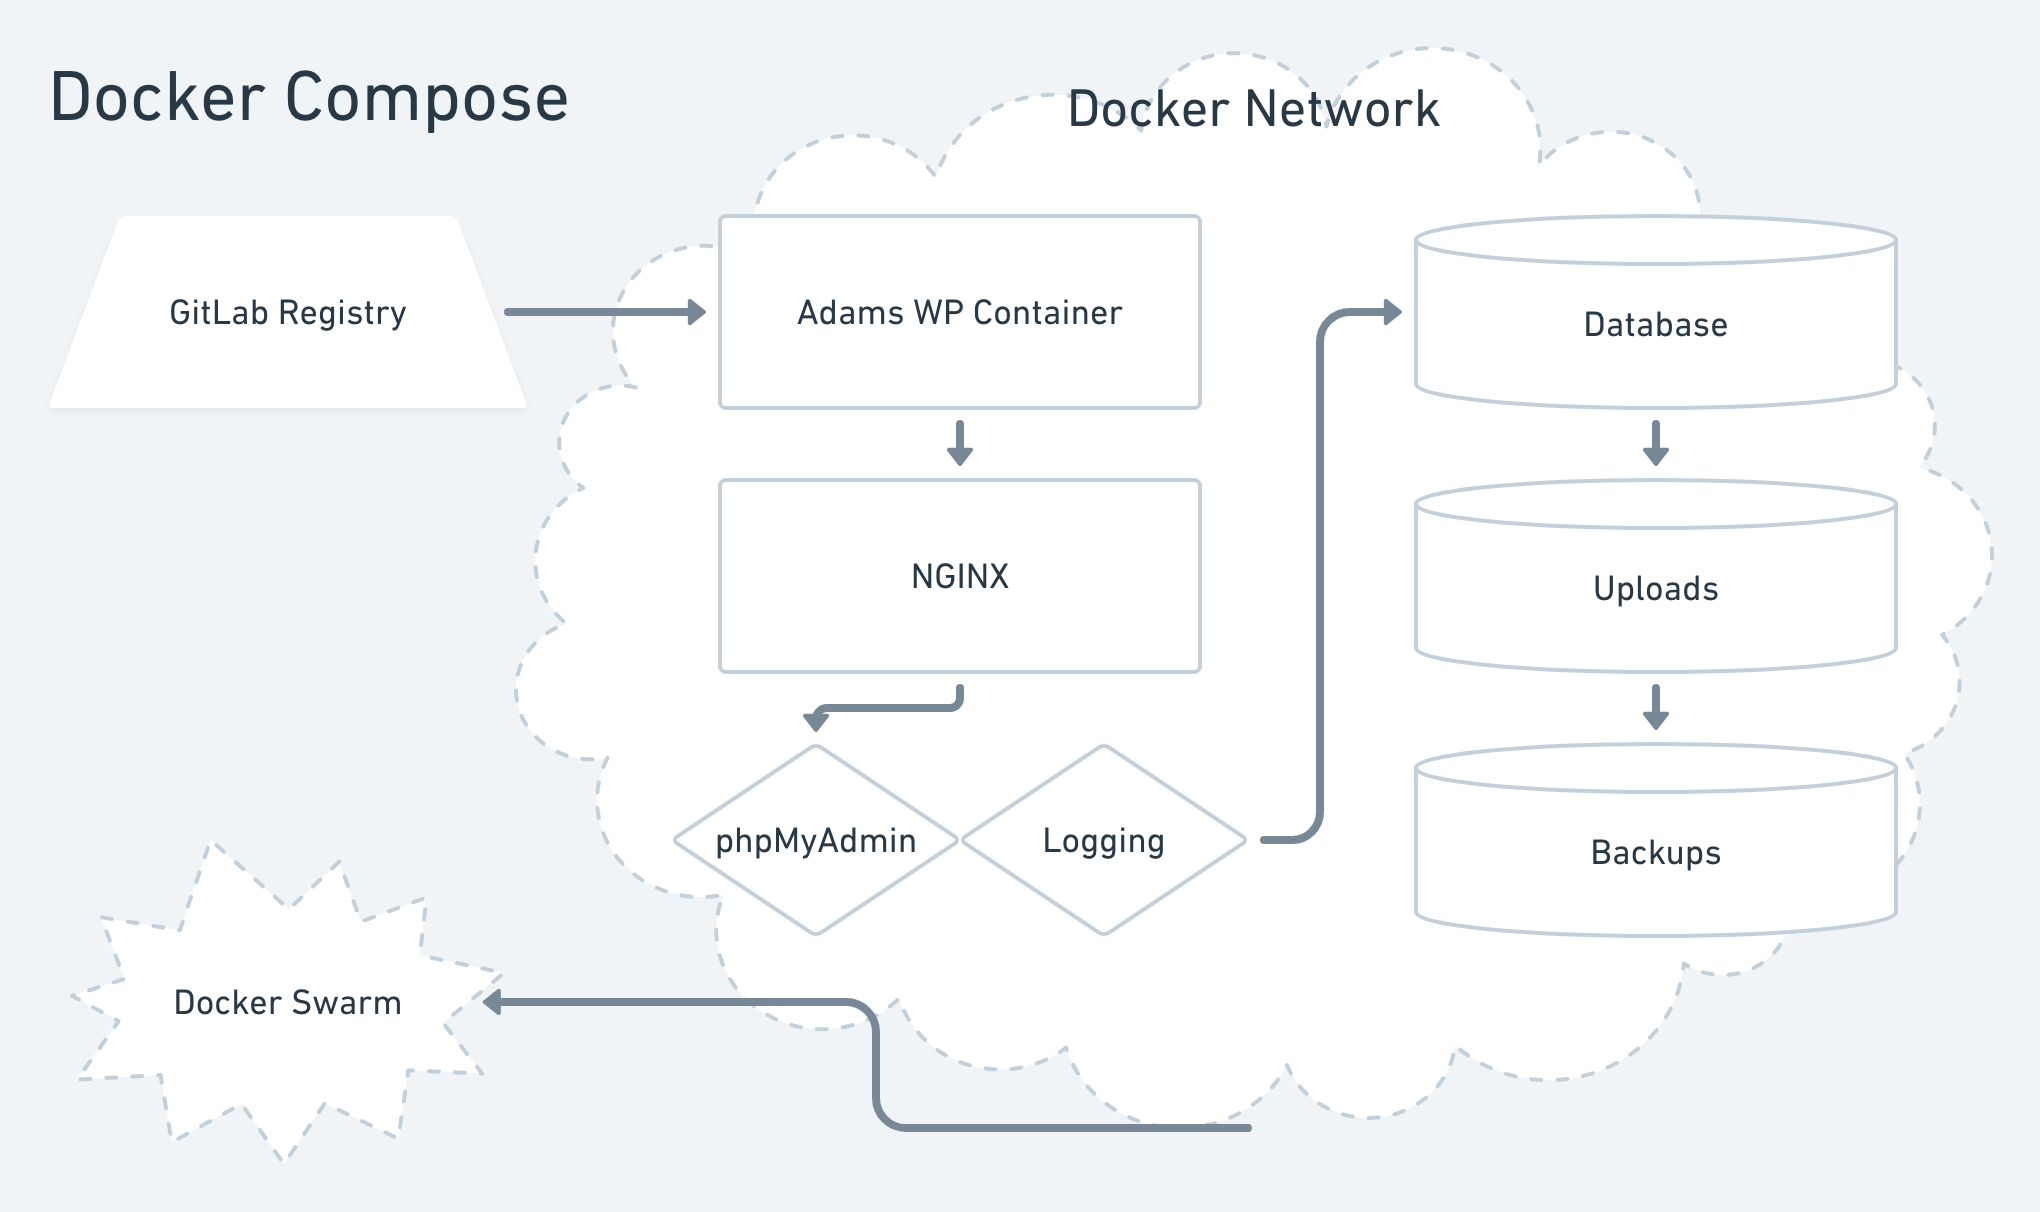
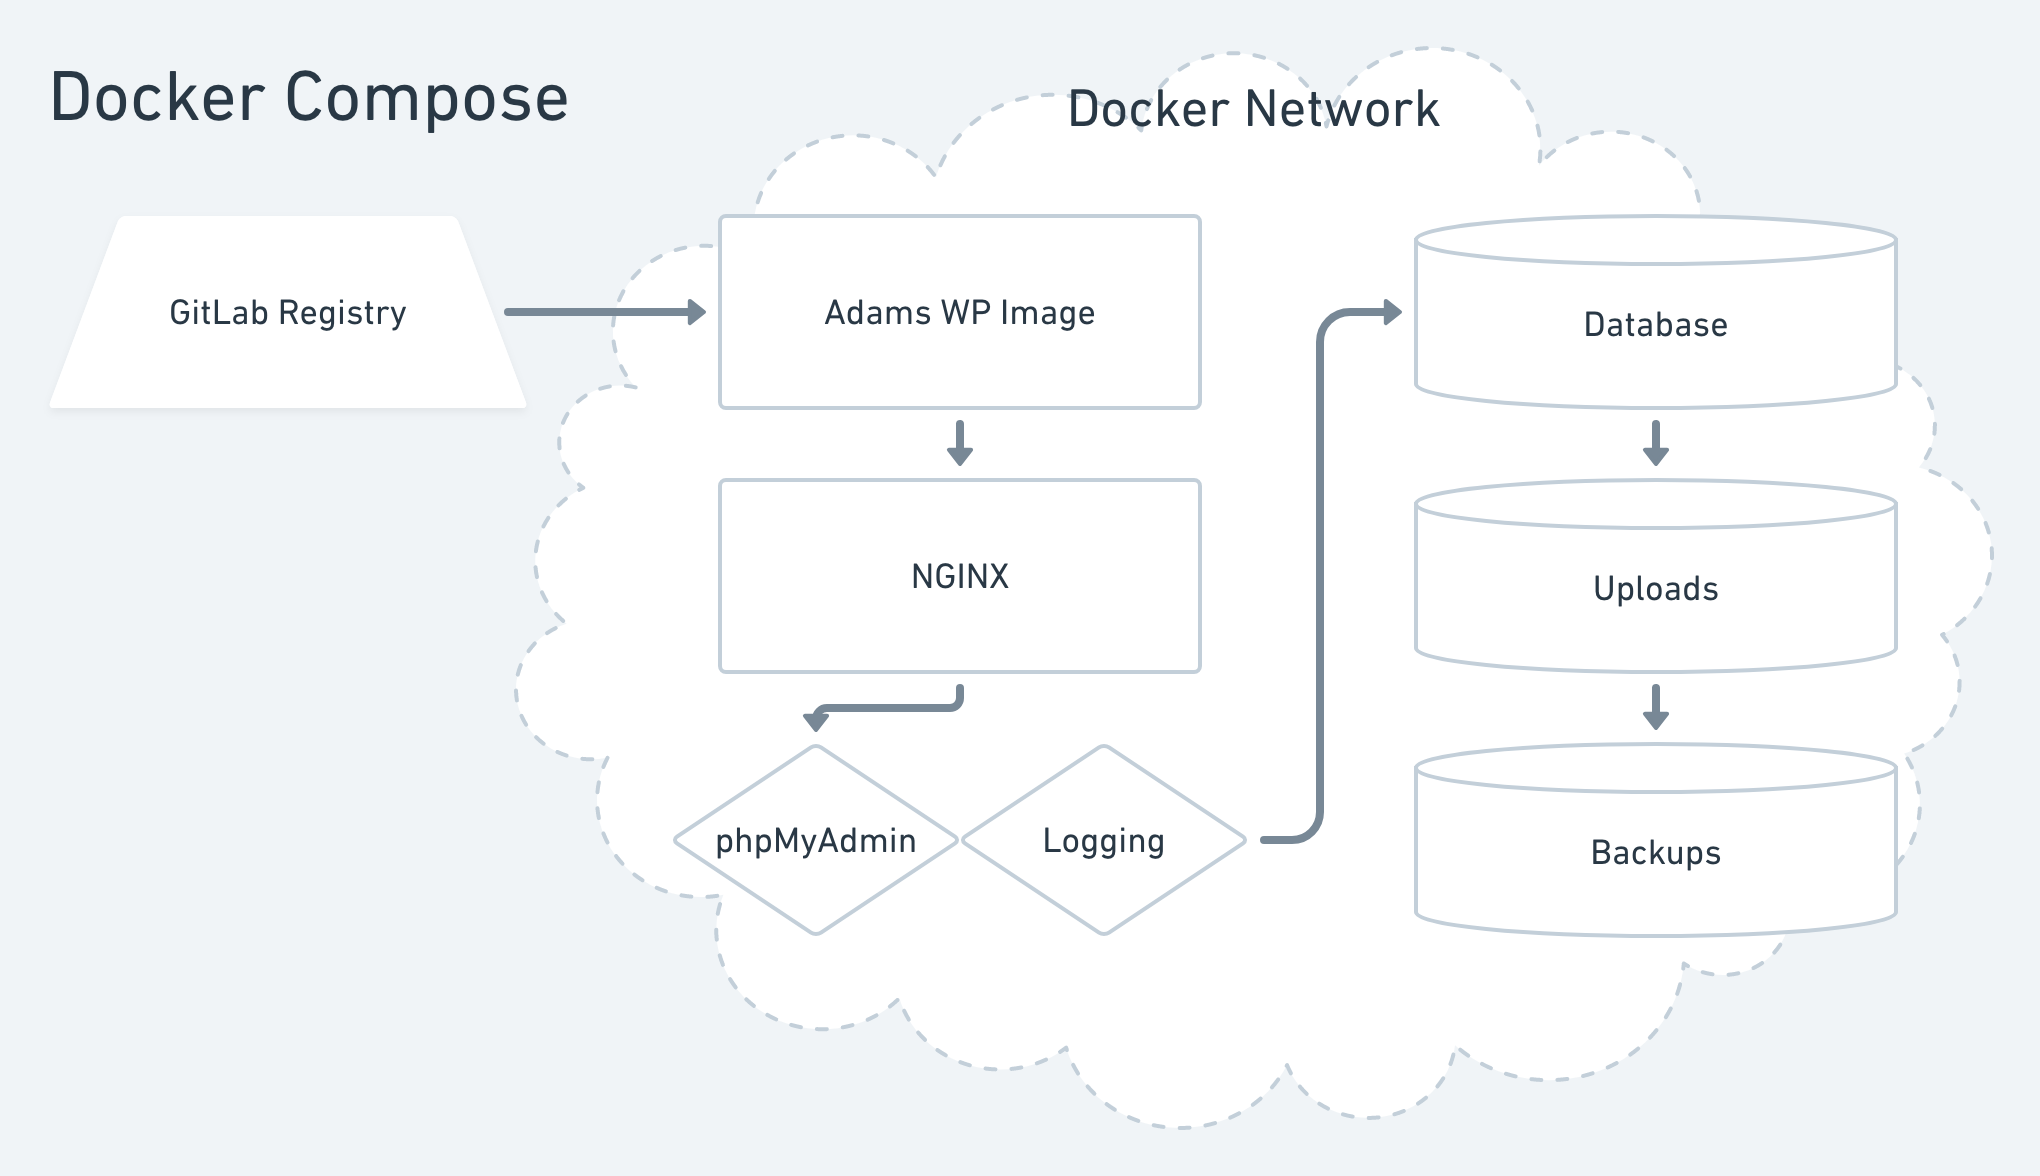
🌋🔥

diff --git a/index.html b/index.html
@@ -307,7 +307,7 @@
 
           <section data-markdown>
             <textarea data-template>
-              *visualization of dockerfile*
+              <img src="media/wp-docker2x.png" alt="Building the Adams WordPress Container">
             </textarea>
           </section>
 
@@ -317,7 +317,11 @@
               FROM wordpress:4.9.7-apache
 
               LABEL maintainer="Mike Henderson mhenderson@adams.edu"
-
+            </code></pre>
+          </section>
+          <section>
+            <h3>Dockerfile Cont.</h3>
+            <pre><code data-trim data-noescape class="dockerfile">
               RUN apt-get update && apt-get install -y \
                 curl zip unzip git libldap2-dev \
                 && rm -rf /var/lib/apt/lists/* \
@@ -330,22 +334,27 @@
               COPY id_rsa /root/.ssh/id_rsa
               RUN chmod 600 /root/.ssh/id_rsa
               RUN echo "Host ourGitLab.adams.edu\n\tStrictHostKeyChecking no\n" >> /root/.ssh/config
-
+            </code></pre>
+          </section>
+          <section>
+            <h3>Dockerfile Cont.</h3>
+            <pre><code data-trim data-noescape class="dockerfile">
               ## Pull in Parent Theme
-              RUN git clone -b 2.2.5 --depth 1 git@ourGitLab.adams.edu:web-dev/jumpstart.git /usr/src/wordpress/wp-content/themes/jumpstart
+              RUN git clone -b 2.2.5 --depth 1 <br>  git@ourGitLab.adams.edu:web-dev/jumpstart.git <br>  /usr/src/wordpress/wp-content/themes/jumpstart
 
               ## Pull in Adams Child Theme
-              RUN git clone -b 1.26 --depth 1 git@ourGitLab.adams.edu:web-dev/adamsstate.git /usr/src/wordpress/wp-content/themes/adamsstate
+              RUN git clone -b 1.26 --depth 1 <br>  git@ourGitLab.adams.edu:web-dev/adamsstate.git <br>  /usr/src/wordpress/wp-content/themes/adamsstate
 
               ## Pull in wp-all-import
-              RUN git clone -b 4.5.1 --depth 1 git@ourGitLab.adams.edu:web-dev/wp-all-import-pro.git /usr/src/wordpress/wp-content/plugins/wp-all-import-pro
-
-              ## Pull in user-role-editor-pro
-              RUN git clone -b 4.46 --depth 1 git@ourGitLab.adams.edu:web-dev/user-role-editor-pro.git /usr/src/wordpress/wp-content/plugins/user-role-editor-pro
-
+              RUN git clone -b 4.5.1 --depth 1 <br>  git@ourGitLab.adams.edu:web-dev/wp-all-import-pro.git <br>  /usr/src/wordpress/wp-content/plugins/wp-all-import-pro
+            </code></pre>
+          </section>
+          <section>
+            <h3>Dockerfile Cont.</h3>
+            <pre><code data-trim data-noescape class="dockerfile">
               ## Pull in composer file and run
               COPY composer.json .
-              RUN composer install --verbose --profile --prefer-dist --no-autoloader
+              RUN composer install <br>  --verbose --profile --prefer-dist --no-autoloader
 
               # Make NFS mount point, set ownership, symlink into wordpress
               RUN mkdir /uploads
@@ -391,15 +400,9 @@
                   "require": {
                     "composer/installers" : "~1.0",
                     "wpackagist-plugin/custom-post-type-ui":"1.5.8",
-                    "wpackagist-plugin/cms-tree-page-view":"1.5",
-                    "wpackagist-plugin/enable-media-replace":"3.2.6",
-                    "wpackagist-plugin/resmushit-image-optimizer":"0.1.15",
-                    "wpackagist-plugin/theme-blvd-layout-builder":"2.2.7",
-                    "wpackagist-plugin/theme-blvd-shortcodes":"1.6.7",
-                    "wpackagist-plugin/theme-blvd-widget-areas":"1.3.0",
+                    …
                     "wpackagist-plugin/wordpress-seo":"7.*",
                     "wpackagist-plugin/wpdirauth":"1.10.5",
-                    "wpackagist-plugin/wp-super-cache":"1.6.0"
                   },
                   "extra" : {
                     "installer-paths": {
@@ -420,8 +423,10 @@
 
           <section data-markdown>
             <textarea data-template>
-              * Container is auto built
-              * Tag and add to Repository
+              ## Magic Begins in GitLab
+
+              * Image is auto built
+              * Tagged and added to Repository
 
             </textarea>
             <aside class="notes">
@@ -459,6 +464,16 @@
               * Banner (CRM) Team
               * Web Development
             </textarea>
+
+            <aside class="notes">
+              teams working Together
+              not that ops team doesn't trust our development Teams
+              don't need to give them a reason to.
+              ops team likes to know what is running
+              ops can deal with outside containers
+              dev deals with inside of container
+
+            </aside>
           </section>
 
           <section data-markdown>
@@ -489,12 +504,15 @@
           <textarea data-template>
             ### DevOps Lifecycle
             <img src="media/cicd_pipeline_infograph.png" alt="code, commit, related code, ci pipeline, test, cd pipeline">
+            Two CI/CD processes
           </textarea>
         </section>
 
         <section data-markdown>
           <textarea data-template>
-            *visualization current system pipeline*
+            ### Adams WP Image CI/CD
+
+            <img src="media/adams-wp-ci.png" alt="Adams WP Image CI/CD">
 
           </textarea>
         </section>
@@ -506,7 +524,7 @@
             * Pulls in main WP from registry <!-- .element: class="fragment" -->
             * Setup of other Containers <!-- .element: class="fragment" -->
               * NGINX, phpMyAdmin, Database <!-- .element: class="fragment" -->
-            * Setup of Networks, Volumes, Storage <!-- .element: class="fragment" -->
+            * Setup of Networks, Volumes <!-- .element: class="fragment" -->
             * Error Log configs <!-- .element: class="fragment" -->
           </textarea>
           <aside class="notes">
@@ -517,12 +535,52 @@
 
         <section data-markdown>
           <textarea data-template>
+            ### Adams Compose CI/CD
+            <img src="media/adams-compose-ci.png" alt="Adams Compose CI/CD">
+          </textarea>
+        </section>
+
+        <section>
+          <h3>Docker Compose YML Excerpt</h3>
+            <pre><code class="yaml" data-trim data-noescape>
+              version: '3'
+              networks:
+                wwwtest
+                …
+              services:
+                 wwwtest-mariadb:
+                   image: mariadb:10.2.14
+                …
+                 wwwtest-wordpress:
+                   image: registry.adams.edu/web-dev/www-docker:2018-27
+                   volumes:
+                     - type: volume
+                       source: wwwtest-uploads
+                       target: /uploads
+            </code></pre>
+        </section>
+
+        <!-- <section data-markdown>
+          <textarea data-template>
             ### Docker Compose
 
             <img src="media/docker-compose2x.png" alt="Docker Compose">
           </textarea>
+        </section> -->
+        <section>
+          <h3>Manual Deploy</h3>
+          <pre><code class="yaml" data-trim data-noescape>
+            before_script:
+              - docker info
+            deploy-to-swarm:
+              stage: deploy
+              tags:
+                - swarm
+              script:
+                - docker stack deploy --with-registry-auth <br>--compose-file=docker-compose.yml www
+              when: manual
+          </code></pre>
         </section>
-
         <section data-markdown>
           <textarea data-template>
             ### Deploy to Swarm
@@ -536,6 +594,23 @@
 
         <section>
 
+          <section data-markdown data-background-image="media/mauro-licul-388509-unsplash.jpg">
+            <textarea data-template>
+              ## Worth Doing?<!-- .element: class="shadow" -->
+            </textarea>
+          </section>
+
+        <section data-markdown>
+          <textarea data-template>
+            ## Worth Doing?
+
+            * Easy Rollback <!-- .element: class="fragment" -->
+            * Future Collaboration <!-- .element: class="fragment" -->
+            * Transparency <!-- .element: class="fragment" -->
+            * Testing and Availability <!-- .element: class="fragment" -->
+          </textarea>
+        </section>
+
         <section data-markdown data-background-image="media/kai-gradert-456602-unsplash.jpg">
           <textarea data-template>
             ## Lessons Learned <!-- .element: class="shadow" -->
@@ -546,7 +621,8 @@
           <textarea data-template>
             ## Lessons Learned
 
-            * Lack of Command Line <!-- .element: class="fragment" -->
+            * Wrapping your head around Docker <!-- .element: class="fragment" -->
+              * Lack of Command Line <!-- .element: class="fragment" -->
             * Swarm networking/scaling issues <!-- .element: class="fragment" -->
             * Clean out registry builds <!-- .element: class="fragment" -->
             * Remember deploy keys <!-- .element: class="fragment" -->
@@ -577,9 +653,10 @@
 
               * More CI / Auto Testing <!-- .element: class="fragment" -->
               * Fancy import to Dev <!-- .element: class="fragment" -->
+              * Replicas and Prefetch <!-- .element: class="fragment" -->
               * WPCLI <!-- .element: class="fragment" -->
               * Kubernetes <!-- .element: class="fragment" -->
-                * [Matt Lauer - Fri 11am](https://2018.wpcampus.org/schedule/kubernetes-in-higher-education/) <!-- .element: class="fragment" -->
+                * [Matt Lauer - Sat 11am](https://2018.wpcampus.org/schedule/kubernetes-in-higher-education/) <!-- .element: class="fragment" -->
 
             </textarea>
             <aside class="notes">
@@ -589,6 +666,10 @@
               incremental, sass analogy
 
               import database from live into dev
+
+              no downtime upgrades
+
+              not married to swarm, switch to kubernetes, workflow is the same
             </aside>
           </section>
 
@@ -598,7 +679,7 @@
           <textarea data-template>
             ## Special Thanks
 
-            * Adams State University System Admins
+            * [Adams State University System Admins](https://www.adams.edu)
               * Cameron Miller
               * Randall Smith
             * [Charles Fulton](https://sites.lafayette.edu/fultonc/2018/04/28/catapulting-rocks/)
